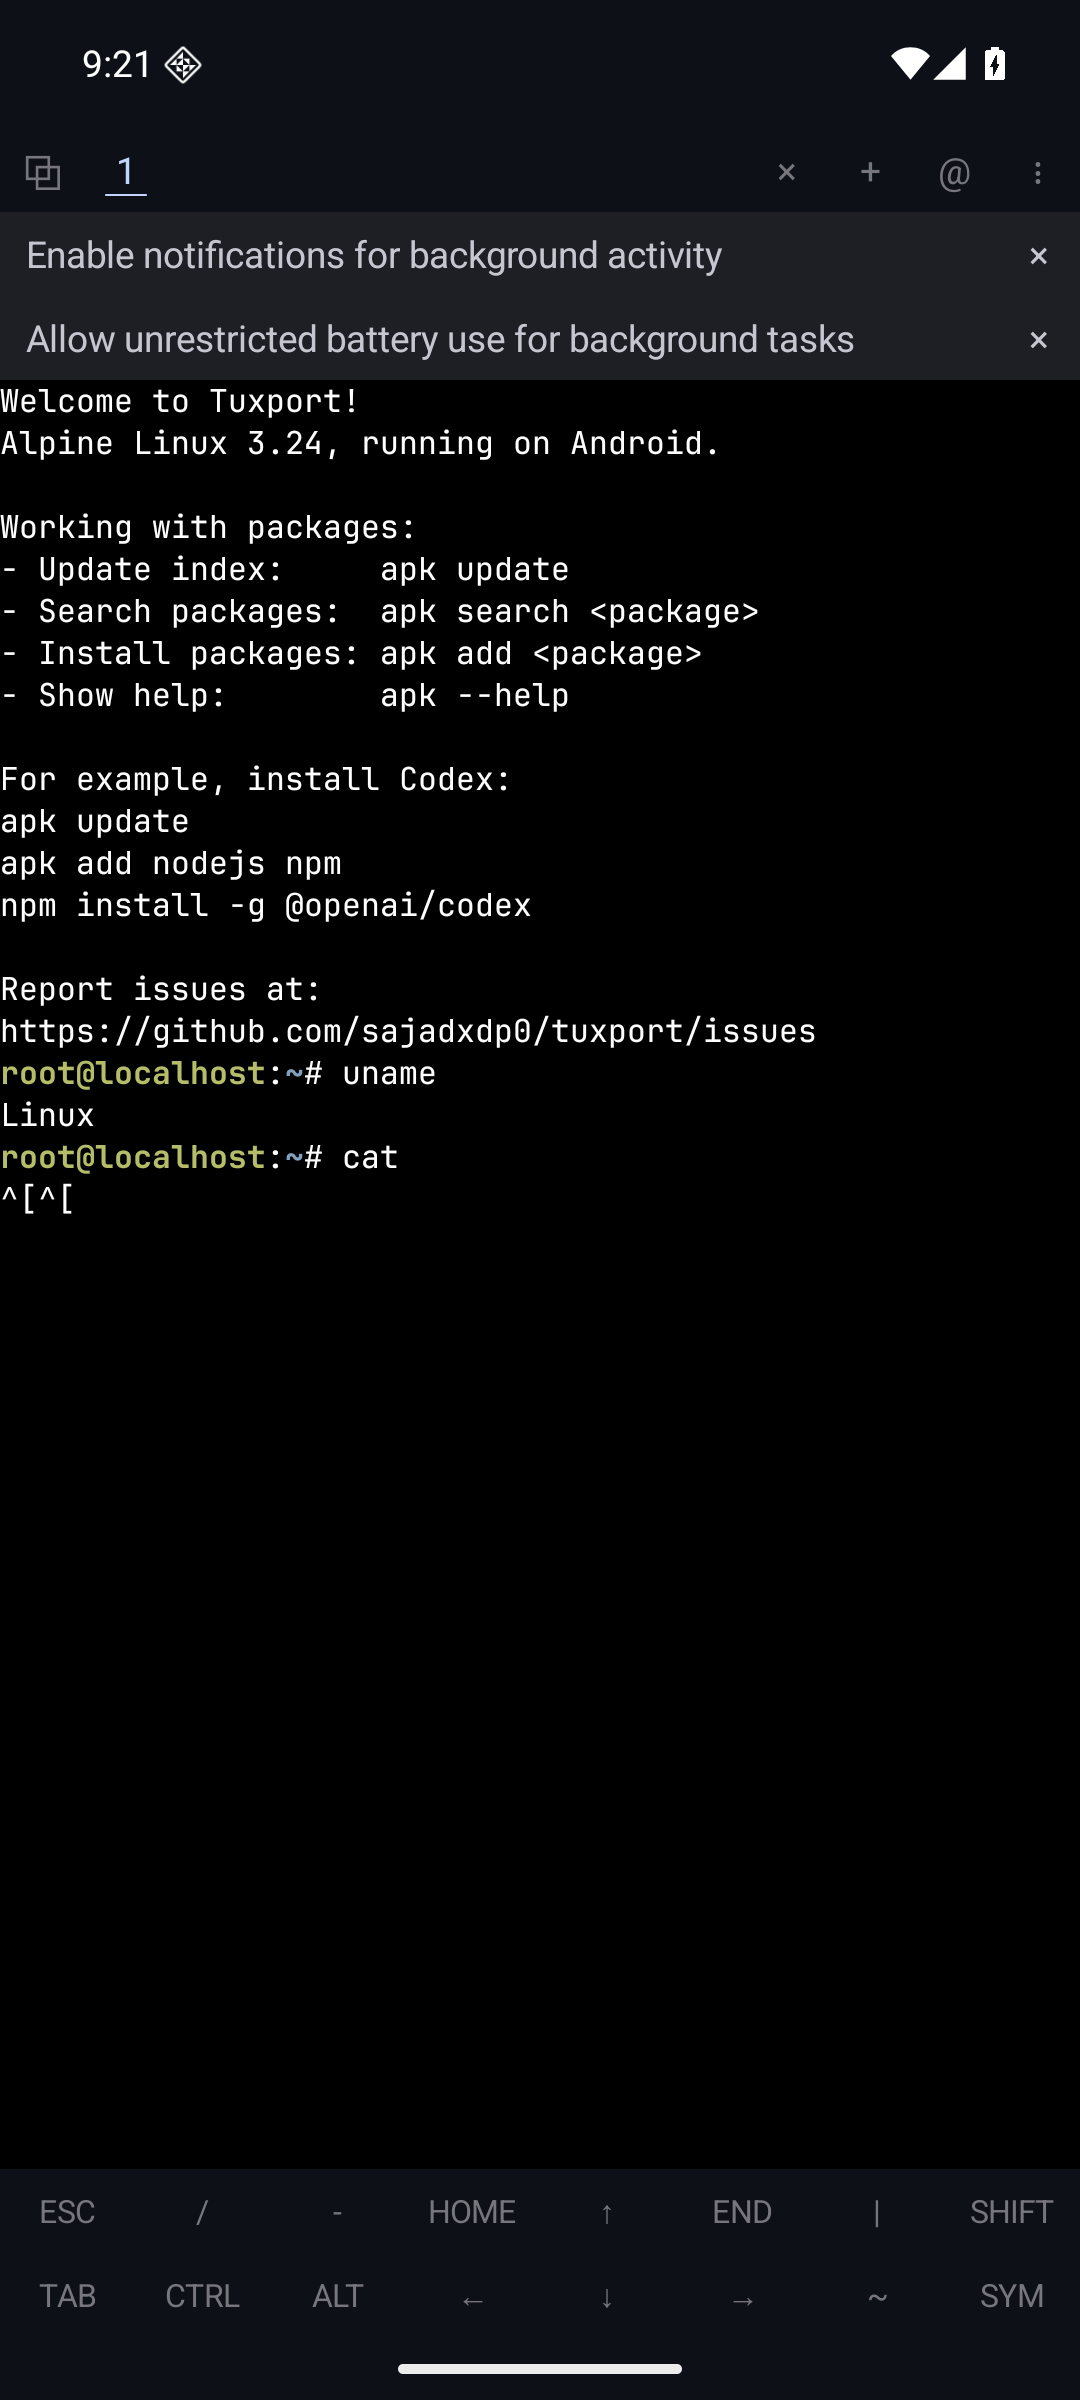
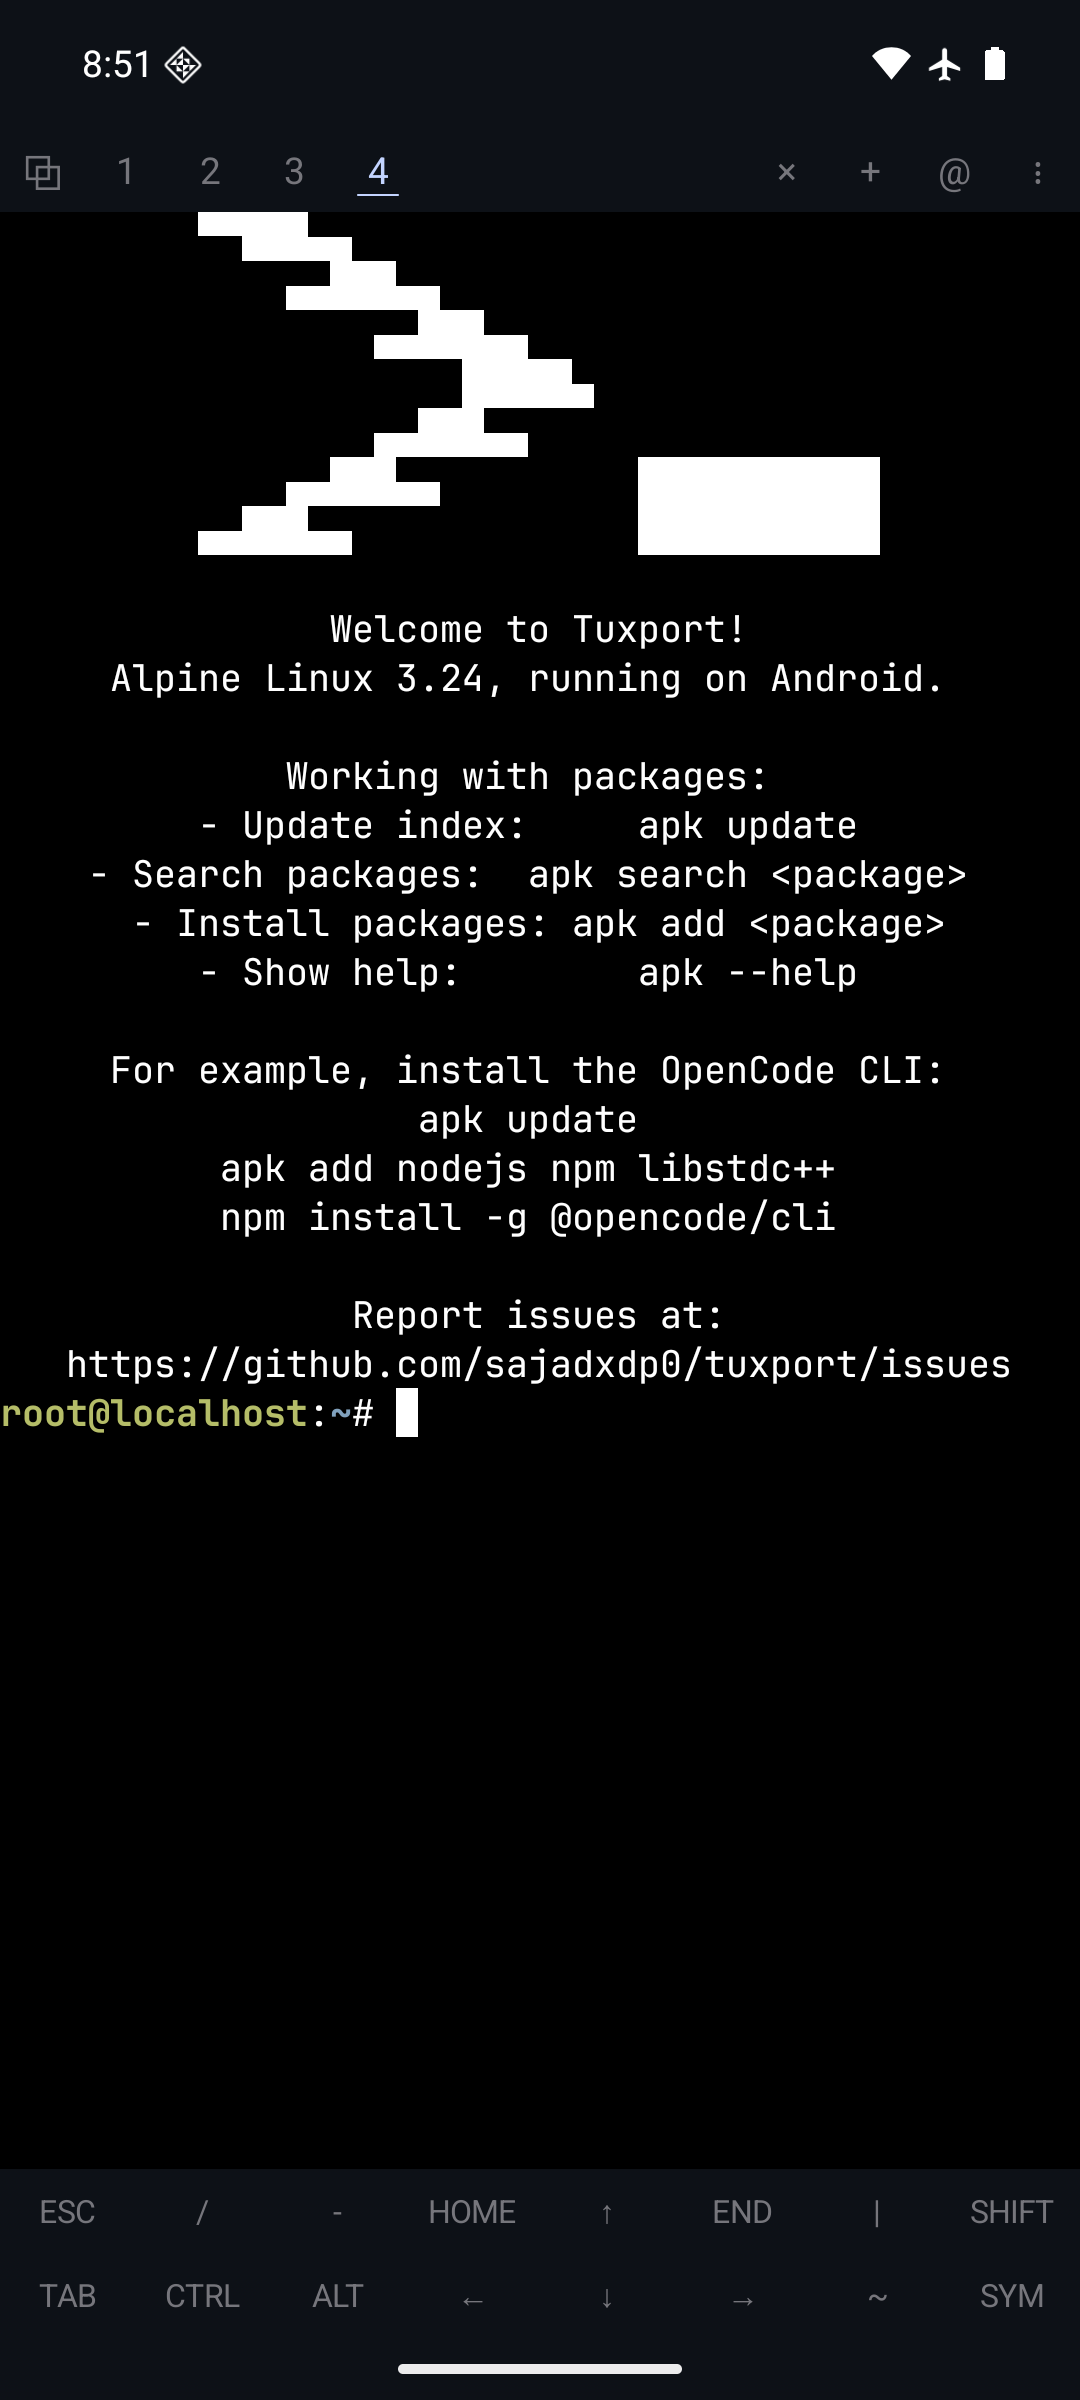
Draw the app's mark at every terminal launch
The login profile now prints the logo's chevron and underscore, drawn
with half blocks, centered above the welcome. The padding is shell
arithmetic rather than the awk that centers the motd: busybox awk
counts length in bytes and a half block is three, so each art line
would skew by its block count (measured in the container: awk's
length of one block returns 3, while printf star padding works).
The mark is skipped below 35 columns; the awk's own n > 0 check
keeps the motd safe at any width.

The sha256 of the text this replaces (the centered-motd profile
shipped in 1.1.2) joins REPLACED_PROFILES, so stores from 1.1.1 and
1.1.2 both receive the new profile without a reset.

Tested through a real login on a pty in the ARM64 container: the
mark prints with the exact 24-space pad at 80 columns, every line
of one 31-column block. On the emulator, both paths were checked
pixel by pixel: a store from the 1.1.2 build took the new profile at
relaunch and a new tab showed the complete mark, and a cleared
install showed the same; the screenshot's cells reconstruct the
intended art exactly. The login instrumentation tests assert with
contains, so the mark's bytes in the login output cannot break them.
The README screenshot is retaken from the verified frame, and the
setup map gains the mark facts, the byte-count gotcha and the
device-verified update path.

diff --git a/android/app/src/main/java/io/github/sajadxdp0/tuxport/Rootfs.kt b/android/app/src/main/java/io/github/sajadxdp0/tuxport/Rootfs.kt
@@ -552,7 +552,9 @@ netns = "host"
      * code full of `$`) are not kept here: the first with prompt marks, until taps on the prompt
      * moved the cursor, the one that marked them for bash and busybox ash only, until zsh got
      * its marks, the one with ash's marks in itself, until `ashrc.sh` took them, and the one with
-     * bash's and zsh's marks in itself, until `bashrc.sh` and `zshrc.sh` took them. A change to
+     * bash's and zsh's marks in itself, until `bashrc.sh` and `zshrc.sh` took them; the one whose
+     * example installed the Codex CLI, until the OpenCode CLI took its place; and the one that
+     * showed no mark above the welcome, until the mark joined it. A change to
      * `profile.sh` adds the sha256 of the text it replaces
      * (`git show HEAD:android/app/src/main/assets/profile.sh | shasum -a 256` before committing).
      */
@@ -566,6 +568,7 @@ netns = "host"
[4 lines of base64/hex data omitted]
     )
 
     /**

diff --git a/.agents/maps/android/setup.md b/.agents/maps/android/setup.md
@@ -67,7 +67,8 @@ session consuming their state and events (`android/vt`).
 - `profile.sh` — copied verbatim, comments included, into the guest as
   `/etc/profile.d/tuxport.sh`; `Rootfs` keeps the texts of the versions without prompt marks
   (`OLD_PROFILE`, `UNMARKED_PROFILE`) and the sha256s of the later ones (`REPLACED_PROFILES`) to
-  recognise them.
+  recognise them. At a login on a terminal at least 35 columns wide it prints the app's mark, the
+  chevron and underscore of the logo drawn with half blocks, centered above the motd.
 - `ashrc.sh` — copied verbatim into the guest as `/etc/profile.d/tuxport.ashrc` (not `.sh`, so
   `/etc/profile` does not read it): ash's prompt marks, read through `ENV`.
 - `bashrc.sh` — copied verbatim into the guest as `/etc/profile.d/tuxport.bashrc`: bash's prompt
@@ -147,7 +148,7 @@ session consuming their state and events (`android/vt`).
     http for trixie, -updates, -security), `hostname` (`localhost`), `motd`, and
     `/etc/profile.d/tuxport.ashrc`, `/etc/profile.d/tuxport.bashrc`, `/etc/profile.d/tuxport.zshrc`, on Alpine
     `/etc/bash/tuxport.sh`, and then `/etc/profile.d/tuxport.sh` (the assets' `ashrc.sh`,
-    `bashrc.sh`, `zshrc.sh` and `profile.sh`: motd, `TERM`, `LANG`, `NMAP_UNPRIVILEGED`, the browser default below,
+    `bashrc.sh`, `zshrc.sh` and `profile.sh`: the mark, the motd, `TERM`, `LANG`, `NMAP_UNPRIVILEGED`, the browser default below,
     `ENV` naming the ash file unless one is set or the file is unreadable, and for bash, busybox ash and zsh only a
     coloured prompt with prompt marks, below; other shells keep the distro's prompt);
   - Alpine: `hosts` only when absent (the minirootfs ships one, so nothing is written), and no
@@ -256,7 +257,7 @@ session consuming their state and events (`android/vt`).
   (but bash on Alpine, above; a nested bash on Debian has none) and
   other shells get no marks from it (fish and nushell send their own, android/vtcore), and shells that
   do not read it still have `TERM`, `LANG` and `NMAP_UNPRIVILEGED` from the console's fixed login
-  environment (android/vt), but show no motd.
+  environment (android/vt), but show neither the mark nor the motd.
 - The shared profile contains no zsh array syntax; only zsh sources `tuxport.zshrc`. The companion
   uses an anonymous function with `emulate -L zsh` for registration, so Alpine's sh emulation
   does not change array filtering or indexing and the caller's options are restored afterwards.
@@ -472,6 +473,9 @@ session consuming their state and events (`android/vt`).
   so a change to any companion alone reaches no existing store (change `profile.sh` with it); and
   the motd is written at import and refreshed on startup by `Rootfs.updateMotd`, which replaces
   only the known old text (the one whose example installed the Codex CLI), leaving an edited one.
+- The profile centers its mark with shell arithmetic, not the awk that centers the motd: busybox
+  awk counts `length` in bytes, and a half block is three, so lines would each skew by their
+  block count. Below 35 columns the mark is skipped; the awk pads any width, so the motd never is.
 - apk takes its database lock without waiting unless given `--wait` (which apk 3 accepts though
   its help does not list it): hence the install lock and the retry with `--wait`; a tab whose login
   waits for an apk the user runs shows only that line until the apk ends or Ctrl-C. apt 3's
@@ -512,6 +516,9 @@ session consuming their state and events (`android/vt`).
 - Should a failed optional per-start write (the network, containers, doas package or profile file,
   for example through a directory the user replaced with a symlink, which `writeFile` refuses) fail
   the whole start rather than be logged?
+- The first tab's frame right after a fresh import was once seen two rows past the mark's top;
+  every observation so far also dismissed the first-run prompts first, so whether an untouched
+  first launch clips the mark's top rows is unverified (new tabs opened later show it complete).
 - Should a Debian tarball left in the cache after its import failed and fell back to Alpine be
   deleted?
 
@@ -525,8 +532,9 @@ session consuming their state and events (`android/vt`).
 
 - Browser defaults passed interactive `su -` checks for root and a regular user with Alpine
   ash/bash and Debian dash/bash in container PTYs, including launcher invocation with an intact
-  URL, custom/empty values and a non-executable launcher. Debug assembly passed. The updated
-  profile and Codex authorization flow have not been retested on Android; existing stores receive
+  URL, custom/empty values and a non-executable launcher. Debug assembly passed. The profile-update
+  path is now device-verified: a store from the prior release took the new profile at relaunch and
+  showed its output, checked pixel by pixel (the mark and the centered motd); existing stores receive
   the change at kernel restart only when their old Tuxport profile is recognized and unedited.
 
 - Notification authorization passed debug assembly, lint and API 34 checks: visibility after
